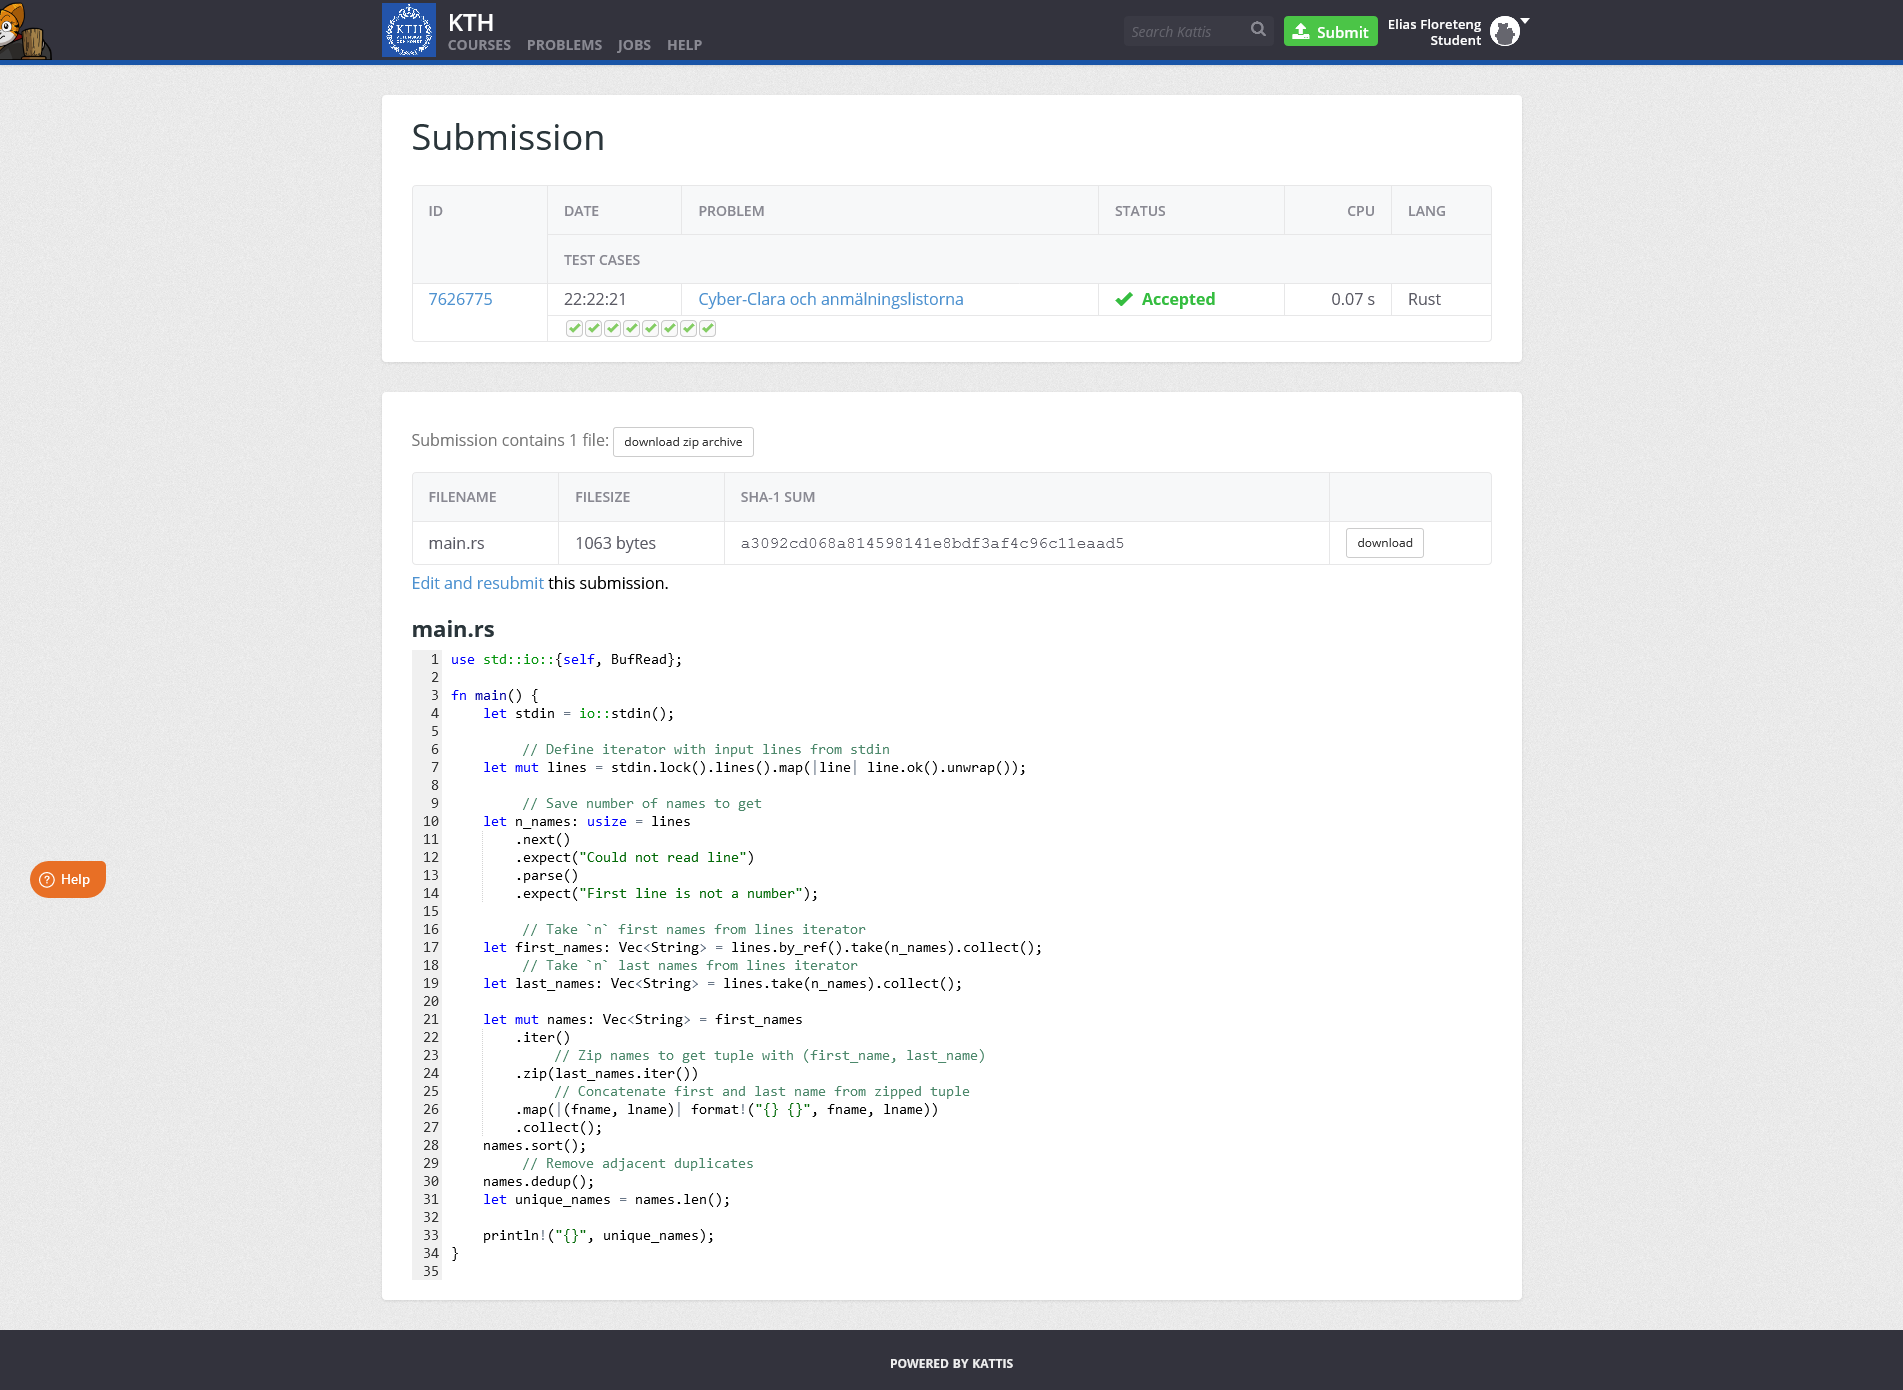
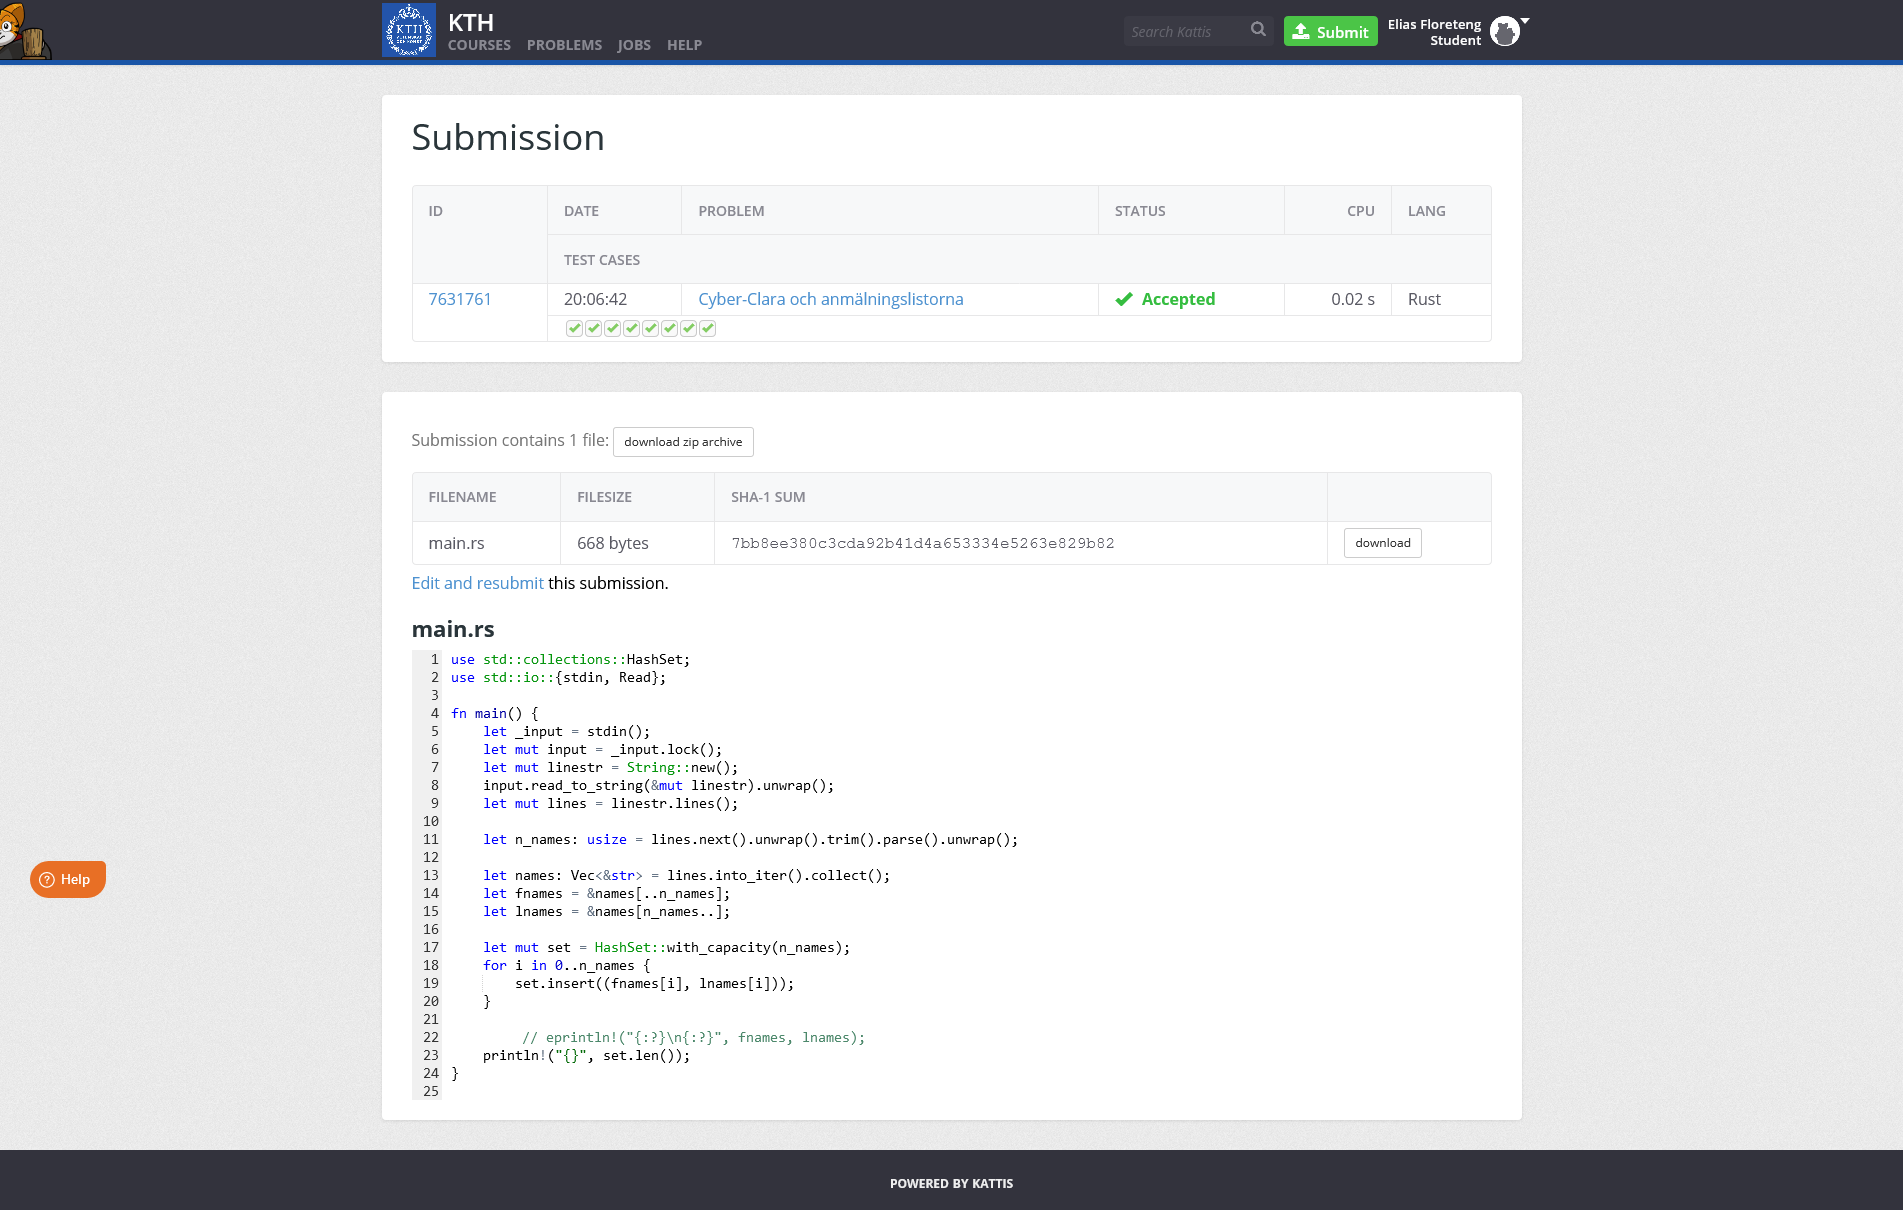
cyber_clara 0.02s, all languages leaderboard 😎

diff --git a/cyber_clara/src/main.rs b/cyber_clara/src/main.rs
@@ -1,28 +1,23 @@
 use std::collections::HashSet;
-use std::io::{stdin, BufRead};
+use std::io::{stdin, Read};
 
 fn main() {
     let _input = stdin();
     let mut input = _input.lock();
+    let mut linestr = String::new();
+    input.read_to_string(&mut linestr).unwrap();
+    let mut lines = linestr.lines();
 
-    let mut n_names = String::new();
-    input.read_line(&mut n_names);
-    let n_names: usize = n_names.trim().parse().unwrap();
+    let n_names: usize = lines.next().unwrap().trim().parse().unwrap();
 
-    let mut names = Vec::with_capacity(n_names);
-    for _ in 0..n_names {
-        let mut tuple = (String::with_capacity(20), String::with_capacity(20));
-        input.read_line(&mut tuple.0);
-        names.push(tuple);
-    }
+    let names: Vec<&str> = lines.into_iter().collect();
+    let fnames = &names[..n_names];
+    let lnames = &names[n_names..];
+
+    let mut set = HashSet::with_capacity(n_names);
     for i in 0..n_names {
-        input.read_line(&mut names[i].1);
+        set.insert((fnames[i], lnames[i]));
     }
-
-    let mut set: HashSet<(String, String)> = HashSet::with_capacity(n_names);
-    set.extend(names);
-
-    // let set: HashSet<_> = names.drain(..n_names).collect();
 
     println!("{}", set.len());
 }

diff --git a/README.md b/README.md
@@ -1,5 +1,19 @@
 # eliasfl-task-2
 
+## Cyber-Clara och anmälningslistorna
+
+Crate name (subfolder): [`cyber_clara`](cyber_clara/)
+
+Assignment: https://kth.kattis.com/problems/kth.grupdat.anmalningslistorna
+
+Execution time: 0.02s
+
+Leaderboard:
+![cyber_clara kattis leaderboard screenshot](cyber_clara/leaderboard.png)
+
+Submission proof:
+![cyber_clara kattis screenshot](cyber_clara/proof.png)
+
 ## Summera tal
 
 Crate name (subfolder): [`sum_numbers`](sum_numbers/)
@@ -17,15 +31,6 @@ Assignment: https://kth.kattis.com/problems/kth.javap.kant
 
 Submission proof:
 ![dist_to_side kattis screenshot](dist_to_side/proof.png)
-
-## Cyber-Clara och anmälningslistorna
-
-Crate name (subfolder): [`cyber_clara`](cyber_clara/)
-
-Assignment: https://kth.kattis.com/problems/kth.grupdat.anmalningslistorna
-
-Submission proof:
-![cyber_clara kattis screenshot](cyber_clara/proof.png)
 
 ## A Different Problem
 
